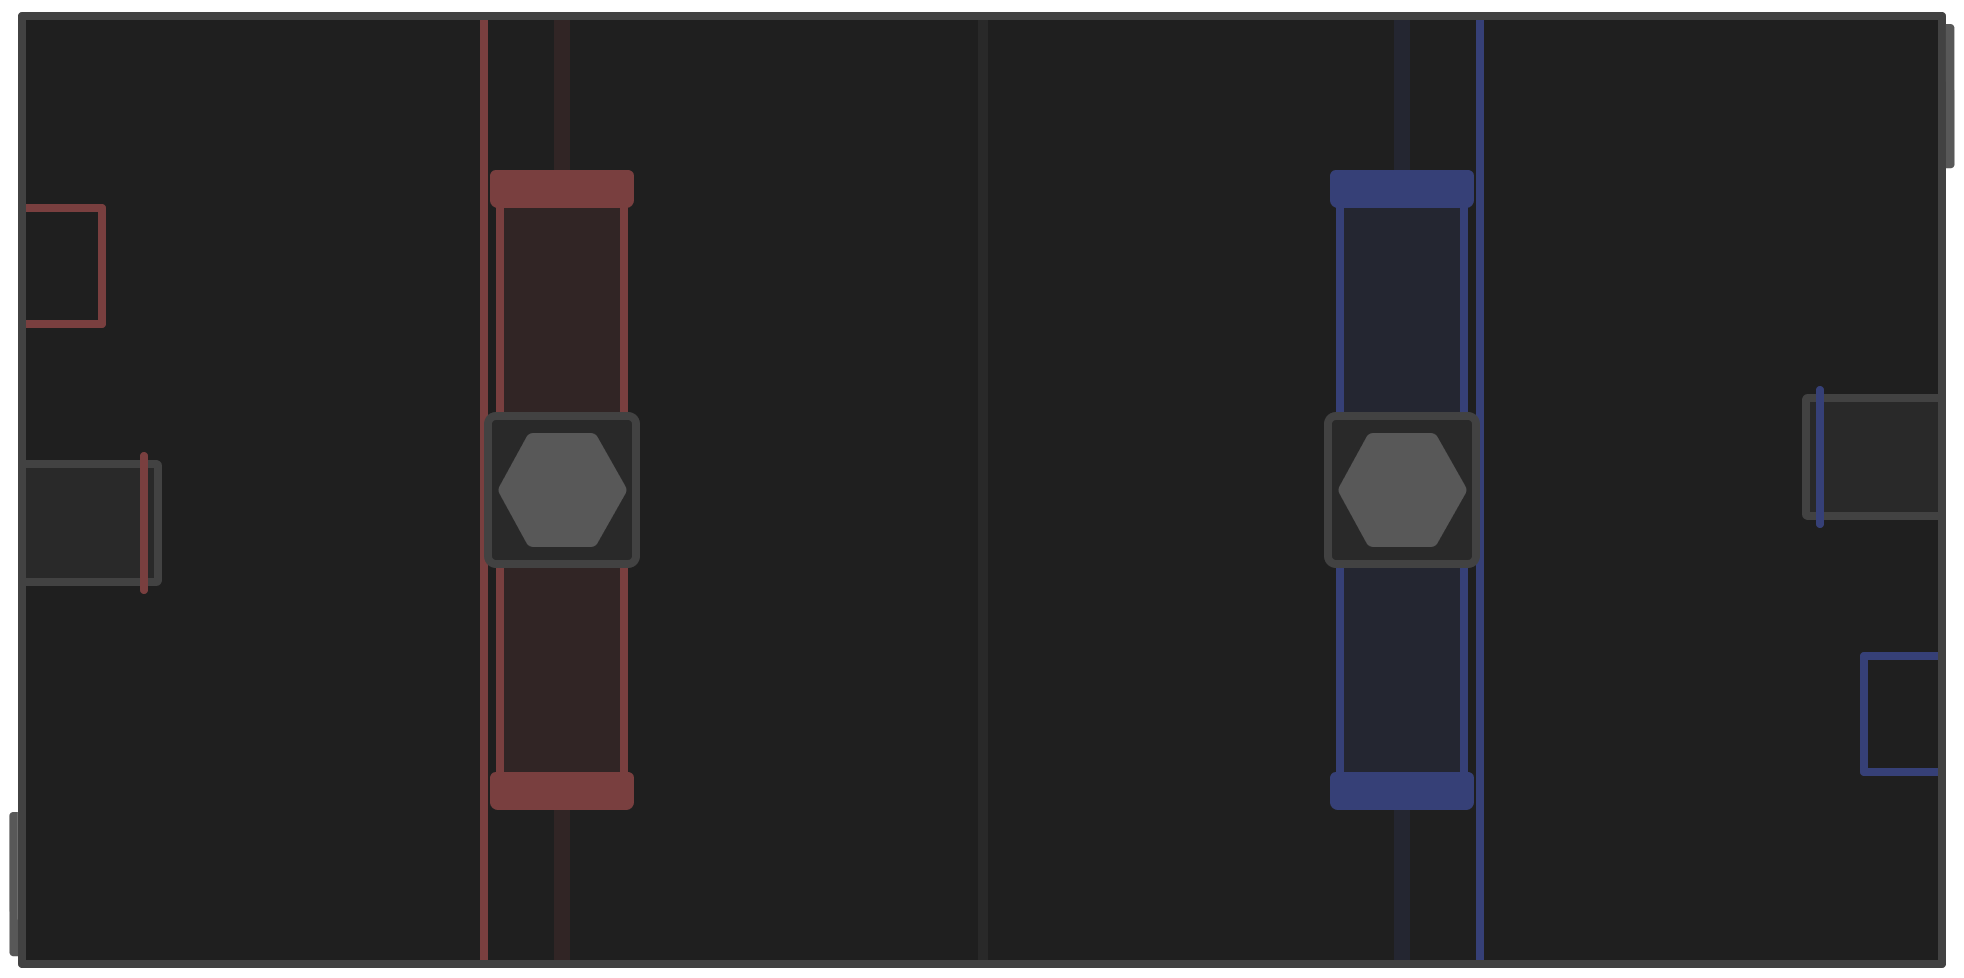
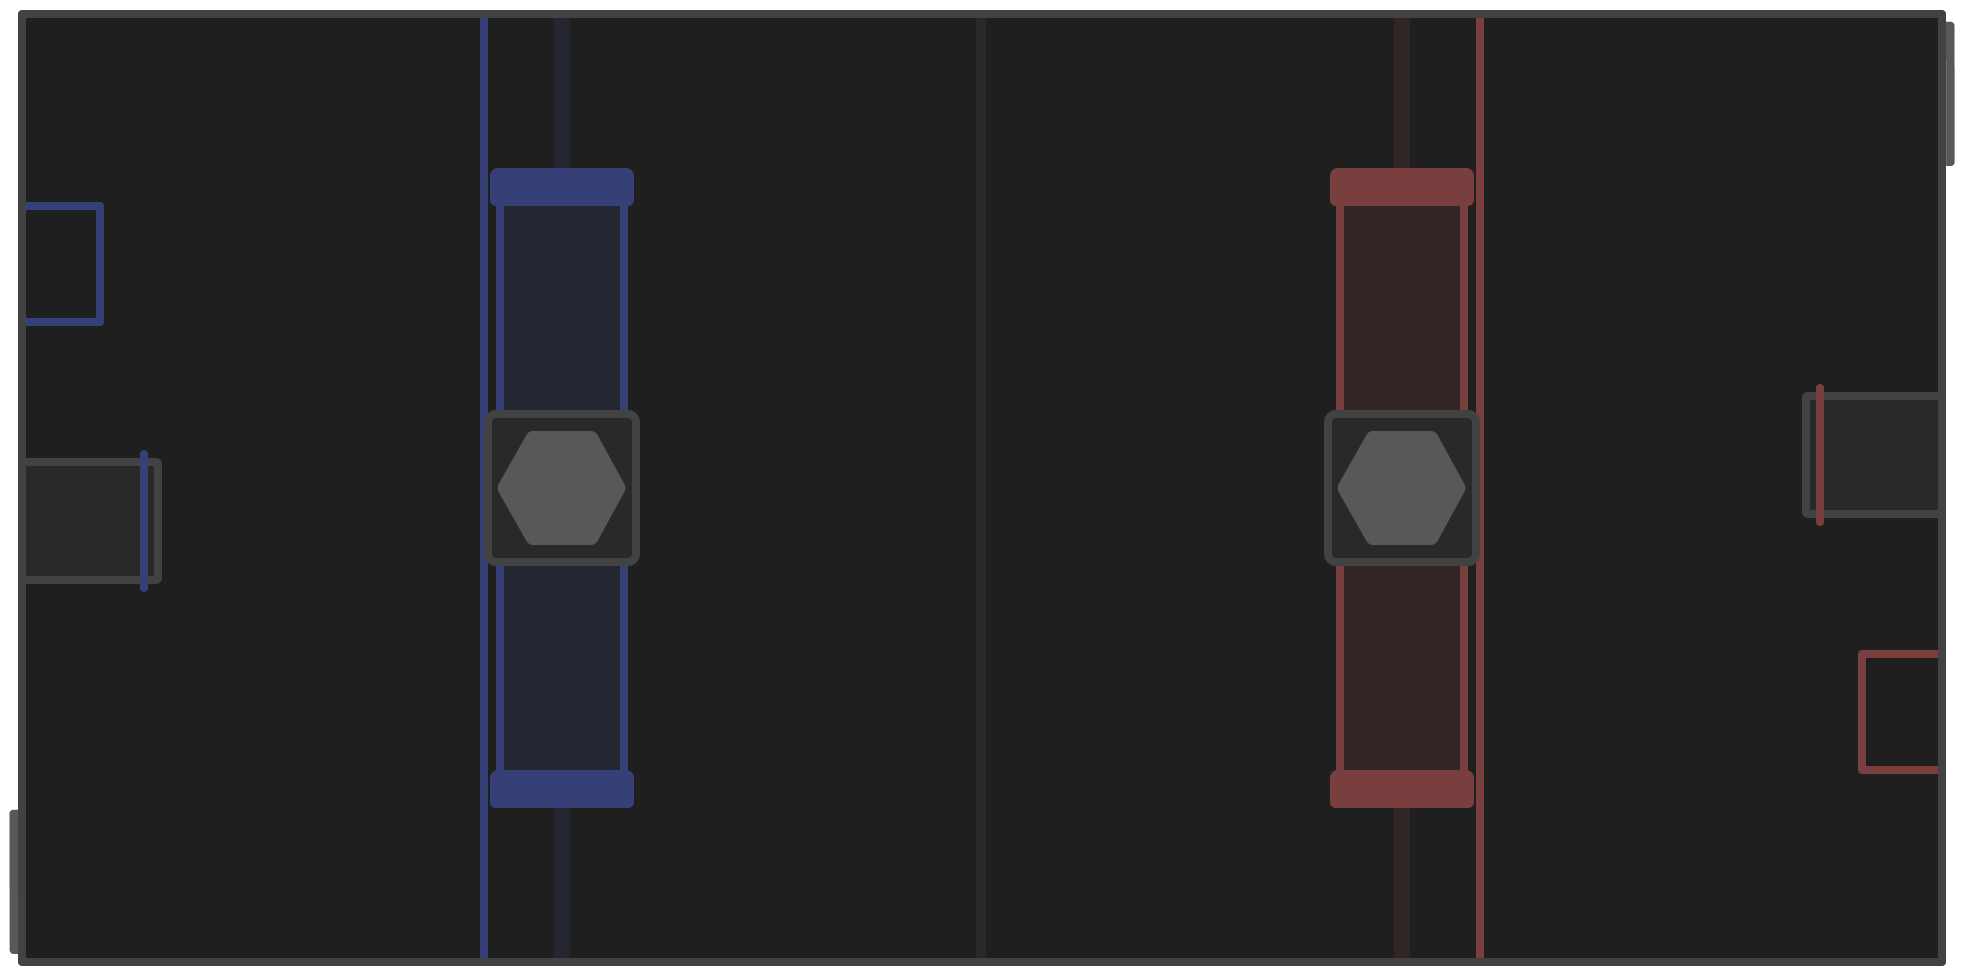
Adjust image rotation for field orientation based on user preference
Update lib/components/FieldImage.tsx to conditionally apply a 180deg rotation to the field image based on the FieldOrientation store value.

Replit-Commit-Author: Agent
Replit-Commit-Session-Id: 39cc2cce-3b88-4e18-954a-7dcc3f8fe76e
Replit-Commit-Checkpoint-Type: full_checkpoint
Replit-Commit-Event-Id: 5bc5778b-3626-4299-a1ed-d9f854b48e4d
Replit-Commit-Screenshot-Url: https://storage.googleapis.com/screenshot-production-us-central1/63cee8ea-ee94-4a7e-ae6b-462d9aa3cd91/39cc2cce-3b88-4e18-954a-7dcc3f8fe76e/JdIeTQZ
Replit-Helium-Checkpoint-Created: true

diff --git a/lib/components/FieldImage.tsx b/lib/components/FieldImage.tsx
@@ -1,12 +1,32 @@
 import React from "react";
 import { Image, View, StyleSheet } from "react-native";
+import {
+  FieldOrientation,
+  useFieldOrientationStore,
+} from "../storage/userStores";
 
 export const fieldWidth = 1964;
 export const fieldHeight = 978;
 
 export const FieldImage = () => {
+  const fieldOrientation = useFieldOrientationStore((state) => state.value);
+
   return (
-    <View style={styles.container}>
+    <View
+      style={[
+        styles.container,
+        {
+          transform: [
+            {
+              rotate:
+                fieldOrientation === FieldOrientation.Auspicious
+                  ? "180deg"
+                  : "0deg",
+            },
+          ],
+        },
+      ]}
+    >
       <Image
         source={require("../../assets/field-2026.png")}
         style={styles.image}
